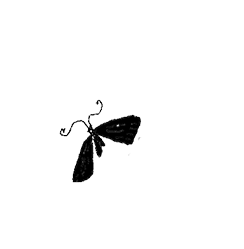
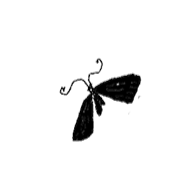
Adjusted the number of rotations whileHover to replicate a flutter movement of moths.

Changed region(s): [[0.2755, 0.2755, 0.7347, 0.7347], [0.2449, 0.4898, 0.3061, 0.551]]

diff --git a/client/src/components/mapComponents/MothElement.js b/client/src/components/mapComponents/MothElement.js
@@ -18,6 +18,24 @@ import Inspiration from "./Inspiration";
 
 const MotionImage = motion(Box); // Wrap the Image component in motion
 
+const shakeVariant = {
+  initial: {
+    rotate: 0, // Initial rotation
+  },
+  shake: {
+    rotate: [
+      0, -10, 10, -10, 10, -5, 5, 0, -10, 10, -10, 10, -5, 5, 0, -10, 10, -10,
+      10, -5, 5, 0, -10, 10, -10, 10, -5, 5, 0,
+    ],
+    scale: [1, 1.1, 1.1, 1.1, 1.1, 1.05, 1.05, 1],
+    transition: {
+      duration: 0.8, // Total animation duration in seconds
+      ease: "easeInOut", // You can adjust the easing function
+      loop: Infinity, // Infinite loop
+    },
+  },
+};
+
 export default function MothElement({
   title,
   description,
@@ -62,6 +80,9 @@ export default function MothElement({
       style={{ top: "50%", left: "50%" }} // Create a starting position at the center of the container
       boxSize={boxSize} // Use the responsive boxSize based on the screen size
       animate={controls} // Apply the animation controls
+      variants={shakeVariant}
+      initial="initial"
+      whileHover="shake" // Apply the shake animation
     >
       <Image
         src={linkImage}
